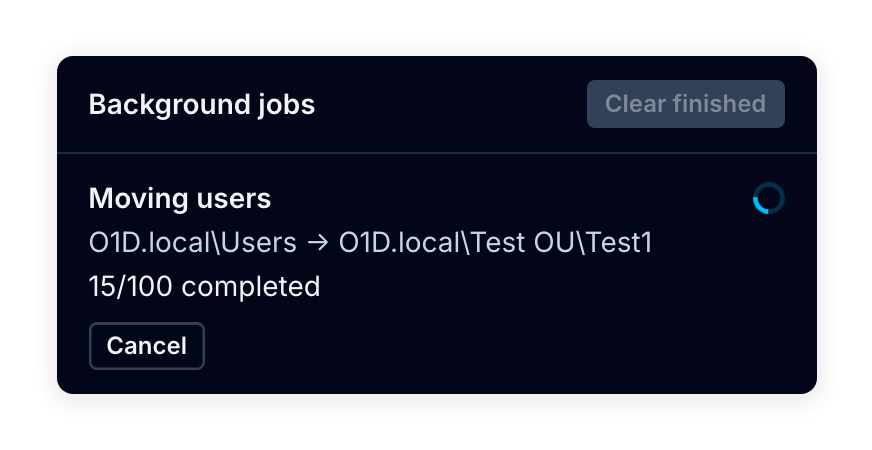
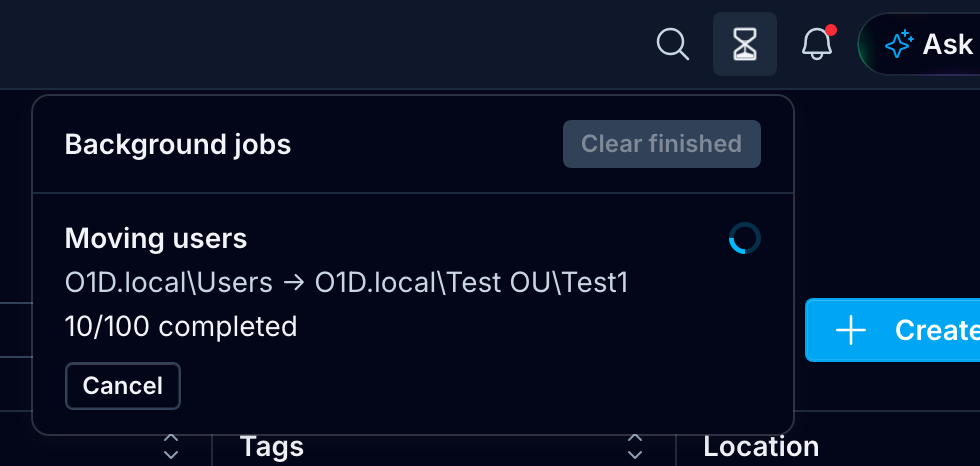
Show the top bar in the B1 picture; never show an empty move route
- B1's welcome card picture now shows the top bar (Search, Hourglass,
  bell, Ask AI) with the jobs popover open under the Hourglass
- Moving to the Active Directory folder itself gave an empty Location, so
  the job read "→" with nothing either side; it now shows the tree path
  ("Managed directories / Active Directory"), and a blank origin reads
  "Unknown location". It was the only one of 27 destinations affected

diff --git a/src/iris-shell/src/lib/useMoveUsers.ts b/src/iris-shell/src/lib/useMoveUsers.ts
@@ -51,8 +51,9 @@ export function useMoveUsers() {
           title: 'Moving users',
           noun: 'users',
           names: moving.map((u) => u.name),
-          from: origins.size === 1 ? [...origins][0] : 'Several locations',
-          to: location,
+          from: origins.size === 1 ? [...origins][0] || 'Unknown location' : 'Several locations',
+          // A folder above the domains (e.g. Active Directory itself) has no Location path; show where it is in the tree.
+          to: location || path.map((n) => n.name).join(' / '),
           toName: destName,
           // AD works through the list in serial; a quarter of a second per user (64 AD users ≈ 15 s) keeps it readable.
           tickMs: 60,

diff --git a/src/iris-shell/src/views/WelcomePage/WelcomePage.module.css b/src/iris-shell/src/views/WelcomePage/WelcomePage.module.css
@@ -27,6 +27,7 @@
   display: block;
   width: 100%;
   height: auto;
+  border-radius: var(--oi-border-radius-default);
 }
 
 .shotWide {
